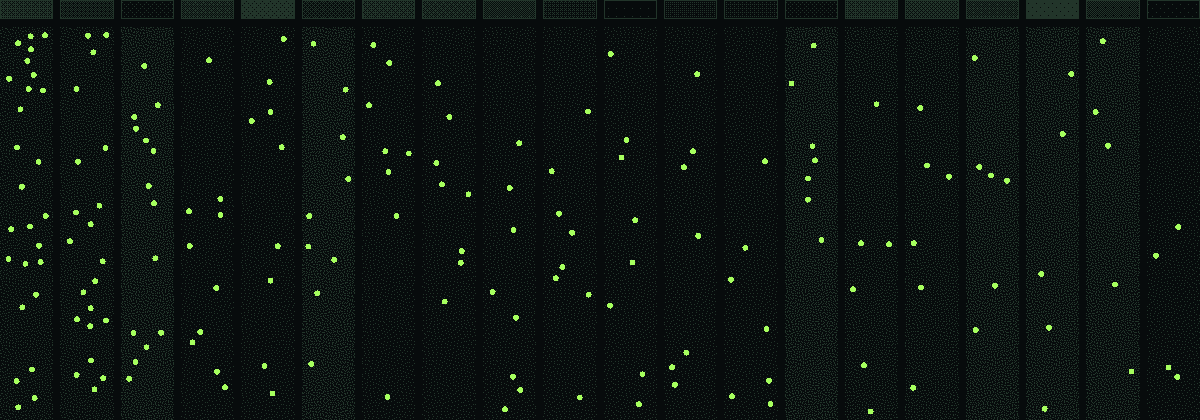
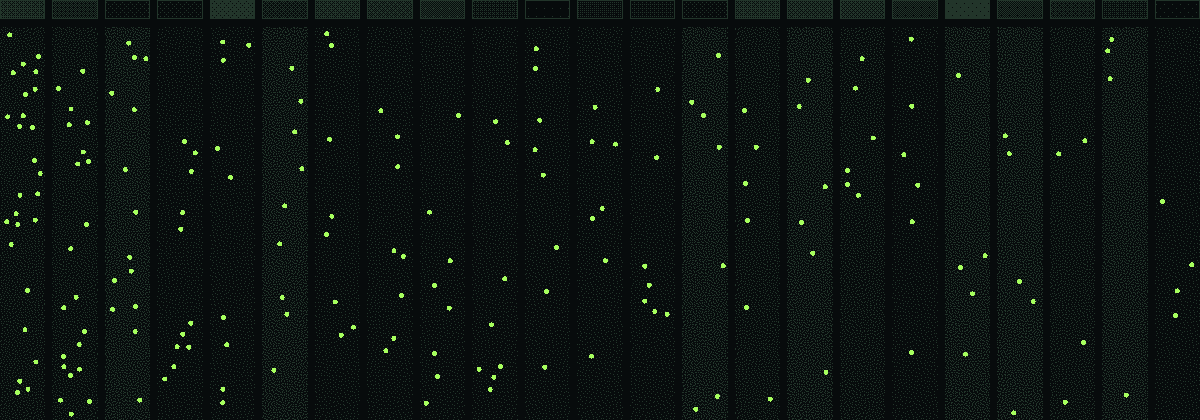
Refresh Harness Firmware product story

Changed region(s): [[0.0, 0.0, 1.0, 1.0]]

diff --git a/public/harness-firmware/index.html b/public/harness-firmware/index.html
@@ -4,12 +4,12 @@
 <meta charset="utf-8">
 <meta name="viewport" content="width=device-width, initial-scale=1">
 <title>Harness Firmware · boots warm</title>
-<meta name="description" content="Firmware for coding agents. Sessions end. The memory stays. A GitHub template: 8.1 KiB resident kernel, durable committed memory, 20 on-demand skill playbooks.">
+<meta name="description" content="A repo-resident operating layer for coding agents: committed project knowledge, explicit correction loops, generated runtime adapters, and 23 on-demand playbooks.">
 <meta name="theme-color" content="#070B0C">
 <meta name="color-scheme" content="dark">
 <link rel="icon" type="image/svg+xml" href="/harness-firmware/assets/favicon.svg">
 <meta property="og:title" content="Harness Firmware · boots warm">
-<meta property="og:description" content="Firmware for coding agents. Sessions end. The memory stays. ≈2,079 tokens resident per turn.">
+<meta property="og:description" content="Make every repository remember how it works. 23 on-demand playbooks with an approximate 2,339-token file-based resident layer.">
 <meta property="og:image" content="https://fullbuild.ai/harness-firmware/assets/og.png">
 <meta name="twitter:card" content="summary_large_image">
 <link rel="stylesheet" href="/harness-firmware/src/phosphor.css">
@@ -28,15 +28,15 @@
   <div class="hero-inner">
     <p class="hero-name mono">HARNESS FIRMWARE</p>
     <h1 class="hero-title" id="hero-title"><span class="hl">BOOTS</span><span class="hl">WARM</span></h1>
-    <p class="hero-sub">A GitHub template that sets up Claude Code and Codex with standing rules, skills they load on demand, and memory kept in the repo.<br><b>Sessions end. What it learned stays.</b></p>
+    <p class="hero-sub"><b>Make every repository remember how it works.</b><br>Put project knowledge, correction workflows, and runtime-qualified agent guidance under version control.</p>
     <div class="hero-row">
-      <a class="cta" href="https://github.com/ryanportfolio/Harness-Firmware">USE THIS TEMPLATE &rarr;</a>
-      <span class="readout mono" data-stat><i class="tick" aria-hidden="true"></i>8.1 KiB in context every turn</span>
+      <a class="cta" href="https://github.com/ryanportfolio/Harness-Firmware/generate">USE THIS TEMPLATE &rarr;</a>
+      <span class="readout mono" data-stat><i class="tick" aria-hidden="true"></i>9.1 KiB file-based resident layer</span>
     </div>
     <p class="hero-note mono">Claude Code and Codex are terminal coding agents, from Anthropic and OpenAI</p>
     <p class="key mono"><span class="k-green">green = written to the repo</span> <span class="k-blue">blue = only in the live session</span></p>
   </div>
-  <span class="hero-seed mono" aria-hidden="true">grain seeded from rev 5224beb</span>
+  <span class="hero-seed mono" aria-hidden="true">grain seeded from rev d9cd99f5</span>
   <span class="hero-scroll mono" aria-hidden="true"><span class="m">SCROLL &middot; THE BEAM FOLLOWS</span><span class="rm">STATIC &middot; MEMORY HOLDS</span></span>
 </section>
 
@@ -46,8 +46,8 @@
   <section class="sec sec-01" id="s01">
     <span class="ghost" aria-hidden="true">01</span>
     <div class="sec-body">
-      <span class="gtag mono" aria-hidden="true"><b>DURABLE MEMORY</b> &middot; pitfalls.md &middot; 2026-07-18</span>
-      <h2 class="reveal">Solve it once, never again</h2>
+      <span class="gtag mono" aria-hidden="true"><b>COMMITTED PROJECT KNOWLEDGE</b> &middot; pitfalls.md &middot; 2026-07-18</span>
+      <h2 class="reveal">Make the repository remember</h2>
       <figure class="console reveal" id="recall-demo">
         <figcaption class="console-bar mono micro"><span>SESSION LOG &middot; /recall</span><span class="replay-hint" aria-hidden="true">replay</span></figcaption>
         <div class="console-body mono" data-replay>
@@ -55,15 +55,15 @@
           <p class="ln">preview shows an outdated version of the site</p>
           <p class="ln">server reuse on a busy port &middot; stale process from a prior session</p>
           <p class="ln cmd">/recall save local preview servers: stale or wrong site</p>
-          <p class="ln keep">saved &rarr; <span class="nb">.claude/reference/pitfalls.md</span> <span class="nb">&middot; committed</span></p>
+          <p class="ln keep">saved &rarr; <span class="nb">.claude/reference/pitfalls.md</span> <span class="nb">&middot; reviewable repo change</span></p>
           <p class="ln off">session ended &middot; context cleared</p>
           <p class="ln gap" aria-hidden="true">&nbsp;</p>
-          <p class="ln dim">claude &middot; session B &middot; any machine, any day</p>
-          <p class="ln boot">warm boot &middot; reads <span class="keep nb">.claude/reference/pitfalls.md</span></p>
-          <p class="ln keep">pitfall already known &middot; port owner checked &middot; trap skipped</p>
+          <p class="ln dim">agent &middot; session B &middot; future checkout</p>
+          <p class="ln boot">task matches local preview failure &middot; <span class="keep nb">/recall</span></p>
+          <p class="ln keep">reads pitfalls.md &middot; cites the saved entry &middot; trap skipped</p>
         </div>
       </figure>
-      <p class="copy reveal">When the agent hits a problem, you type <span data-stat>/recall</span> in the agent and it writes the lesson into a file in your repo. Every session after that reads it at startup. Because the file is committed, your teammates' agents get it too.</p>
+      <p class="copy reveal"><span data-stat>/recall</span> does not preload every lesson. It routes the task to the relevant reference file, reads the real repo knowledge, and cites its source. Save a new pitfall once; teammates and future sessions can retrieve it when the work matches.</p>
     </div>
   </section>
 
@@ -71,14 +71,14 @@
   <section class="sec sec-02" id="s02">
     <span class="ghost" aria-hidden="true">02</span>
     <div class="sec-body">
-      <span class="gtag mono" aria-hidden="true"><b>WHAT LOADS EVERY TURN</b></span>
-      <h2 class="reveal">8.1 KiB is all it keeps loaded</h2>
+      <span class="gtag mono" aria-hidden="true"><b>DEFAULT FILE-BASED LAYER</b></span>
+      <h2 class="reveal">9.1 KiB keeps the map, not every manual</h2>
       <div class="halo-stage reveal">
-        <img class="bake" src="/harness-firmware/fallback/core-halo.png" alt="A small dense green phosphor core inside a vast faint residue halo; the lit green mass is 4.7% of the lit residue, the measured resident share" width="1200" height="640">
-        <span class="halo-numeral" aria-hidden="true"><span class="lockup">8<span class="dp">.</span>1<i>KiB</i></span></span>
+        <img class="bake" src="/harness-firmware/fallback/core-halo.png" alt="A small dense green phosphor core inside a vast faint residue halo; the lit green mass is 5% of the lit residue, the measured resident share" width="1200" height="640">
+        <span class="halo-numeral" aria-hidden="true"><span class="lockup">9<span class="dp">.</span>1<i>KiB</i></span></span>
       </div>
-      <p class="mono micro reveal metrology" data-stat>kernel 5,401 B + skill index 2,916 B = resident 8,317 B &middot; &approx;2,079 tok/turn &middot; resident end 0x0207D</p>
-      <p class="copy reveal">The rules, plus one line describing each skill, are the only part in the context window every turn: <span data-stat>8,317 bytes</span>, about <span data-stat>2,079 tokens</span>. Paste all twenty skills in instead and you would carry about <span data-stat>43,776 tokens</span> before writing a line of code, so this runs at <span data-stat>4.7%</span> of that, a <span data-stat>21.1&times;</span> difference.</p>
+      <p class="mono micro reveal metrology" data-stat>kernel 5,401 B + routing index 3,954 B = resident 9,355 B &middot; &approx;2,339 tok/turn &middot; resident end 0x0248B &middot; 20.1&times; &middot; 5%</p>
+      <p class="copy reveal">The measured resident repo files total <span data-stat>9,355 bytes</span>, about <span data-stat>2,339 tokens</span> using a four-character estimate. The full <span data-stat>188,216 B</span> playbook library stays on demand. Tool catalogs, runtime injection, billing, and productivity are outside this measurement.</p>
       <figure class="rules reveal">
         <figcaption class="mono micro">FOUR OF THE STANDING RULES, VERBATIM FROM CLAUDE.md</figcaption>
         <ul class="mono">
@@ -96,38 +96,52 @@
   <section class="sec sec-03" id="s03">
     <span class="ghost" aria-hidden="true">03</span>
     <div class="sec-body">
-      <span class="gtag mono" aria-hidden="true"><b>ON-DEMAND SKILLS</b> &middot; 20 skills &middot; 171 KiB</span>
-      <h2 class="reveal">Twenty skills, loaded only when needed</h2>
+      <span class="gtag mono" aria-hidden="true"><b>DEFINING OPERATING LOOPS</b> &middot; 8 workflows &middot; 23 in the full library</span>
+      <h2 class="reveal">Eight workflows make the repository compound</h2>
       <p class="pan-hint mono micro" aria-hidden="true">pan &rarr;</p>
       <div class="spectrum-stage reveal" id="spectrum">
-        <img class="bake" src="/harness-firmware/fallback/spectrum.png" alt="Twenty vertical phosphor bands ordered by flash address, one green dot per 1,024-byte block; writing-skills carries 26 dots, caveman 4. Cap fill at the top of each band shows the true last-block pad" width="1200" height="420">
+        <img class="bake" src="/harness-firmware/fallback/spectrum.png" alt="Twenty-three vertical phosphor bands ordered by flash address, one green dot per 1,024-byte block; writing-skills carries 26 dots, caveman 4. Cap fill shows the true last-block pad" width="1200" height="420">
         <div class="band-labels mono" aria-hidden="true"><span>writing-skills &middot; 26 dots</span><span>caveman &middot; 4 dots</span></div>
       </div>
       <p class="mono readline" id="spectrum-readout" aria-live="polite" data-stat>writing-skills &middot; 26,286 B &middot; 26 blocks &middot; 0x00000</p>
-      <p class="mono micro reveal">one dot = one 1,024 B block &middot; 182 blocks &middot; 175,102 B across 20 skills &middot; largest writing-skills 26,286 B &middot; smallest caveman 3,111 B</p>
-      <p class="copy reveal">A skill is a markdown playbook in <span data-stat>.claude/skills/</span>. The agent reads the one-line summary of each, and loads the whole file only when the work calls for it. Here are all twenty, with the space each takes on disk.</p>
+      <p class="mono micro reveal">one dot = one 1,024 B block &middot; 197 blocks &middot; 188,216 B across 23 skills &middot; largest writing-skills 26,286 B &middot; smallest caveman 3,111 B</p>
+      <ul class="sr-only" id="spectrum-inventory">
+        <li>writing-skills: 26,286 B, 26 blocks, discipline</li>
+        <li>impartial-review: 20,933 B, 21 blocks, discipline</li>
+        <li>init-project: 13,400 B, 14 blocks, core</li>
+        <li>enhance-prompt: 10,335 B, 11 blocks, extras</li>
+        <li>why: 9,121 B, 9 blocks, extras</li>
+        <li>merge: 8,590 B, 9 blocks, core</li>
+        <li>advocate: 7,837 B, 8 blocks, extras</li>
+        <li>fable-mode: 7,770 B, 8 blocks, extras</li>
+        <li>lab: 7,693 B, 8 blocks, extras</li>
+        <li>humanizer: 7,483 B, 8 blocks, extras</li>
+        <li>handoff-audit: 7,182 B, 8 blocks, extras</li>
+        <li>purposeful-writing: 6,383 B, 7 blocks, extras</li>
+        <li>forge-repo-ui-skill: 6,329 B, 7 blocks, extras</li>
+        <li>optimize-context: 6,253 B, 7 blocks, core</li>
+        <li>writing-plans: 5,812 B, 6 blocks, discipline</li>
+        <li>addskill: 5,784 B, 6 blocks, core</li>
+        <li>brainstorming: 5,755 B, 6 blocks, discipline</li>
+        <li>wow-loop: 5,613 B, 6 blocks, extras</li>
+        <li>sync-starter: 5,081 B, 5 blocks, core</li>
+        <li>recall: 4,588 B, 5 blocks, core</li>
+        <li>long-horizon: 3,508 B, 4 blocks, discipline</li>
+        <li>refine: 3,369 B, 4 blocks, core</li>
+        <li>caveman: 3,111 B, 4 blocks, extras</li>
+      </ul>
+      <p class="copy reveal">The full library mixes homegrown, reimplemented, and upstream skills. Raw count is not the differentiation. These eight connect project memory, correction, scaffolding, propagation, context control, and independent verification.</p>
       <ol class="skill-list mono reveal">
-          <li><b>writing-skills</b><span>author and test new skills</span><em>26 blocks</em></li>
-          <li><b>impartial-review</b><span>fresh agents audit your changes</span><em>21 blocks</em></li>
-          <li><b>init-project</b><span>configure a newly created repo</span><em>14 blocks</em></li>
-          <li><b>enhance-prompt</b><span>turn a rough ask into a prompt</span><em>10 blocks</em></li>
-          <li><b>why</b><span>challenge the last recommendation</span><em>9 blocks</em></li>
-          <li><b>merge</b><span>commit, push, PR, merge</span><em>9 blocks</em></li>
-          <li><b>advocate</b><span>argue against a change before it lands</span><em>8 blocks</em></li>
-          <li><b>fable-mode</b><span>deep mode for layered work</span><em>8 blocks</em></li>
-          <li><b>lab</b><span>prototype UI and motion live</span><em>8 blocks</em></li>
-          <li><b>humanizer</b><span>strip AI tells from prose</span><em>8 blocks</em></li>
-          <li><b>handoff-audit</b><span>audit prompt for a fresh session</span><em>8 blocks</em></li>
-          <li><b>purposeful-writing</b><span>prose written for a real reader</span><em>7 blocks</em></li>
-          <li><b>forge-repo-ui-skill</b><span>synthesise a repo UI skill</span><em>7 blocks</em></li>
-          <li><b>optimize-context</b><span>cut per-turn token load</span><em>7 blocks</em></li>
-          <li><b>writing-plans</b><span>plan before touching code</span><em>6 blocks</em></li>
-          <li><b>brainstorming</b><span>design before building</span><em>6 blocks</em></li>
-          <li><b>addskill</b><span>add a repo-local skill</span><em>6 blocks</em></li>
-          <li><b>sync-starter</b><span>pull template updates in</span><em>5 blocks</em></li>
-          <li><b>recall</b><span>save and read project memory</span><em>5 blocks</em></li>
-          <li><b>caveman</b><span>ultra-terse replies</span><em>4 blocks</em></li>
+          <li><b>recall</b><span>retrieve and capture project knowledge</span><em>5 blocks</em></li>
+          <li><b>refine</b><span>turn task friction into a reversible correction</span><em>4 blocks</em></li>
+          <li><b>init-project</b><span>configure a new repo from detected facts</span><em>14 blocks</em></li>
+          <li><b>sync-starter</b><span>move generic improvements without overwriting local knowledge</span><em>5 blocks</em></li>
+          <li><b>optimize-context</b><span>cut guidance that no longer earns its cost</span><em>7 blocks</em></li>
+          <li><b>long-horizon</b><span>preserve an audited contract across verified rounds</span><em>4 blocks</em></li>
+          <li><b>impartial-review</b><span>use fresh agents to audit changes when tools allow</span><em>21 blocks</em></li>
+          <li><b>wow-loop</b><span>drive visual work through screenshot-backed critique</span><em>6 blocks</em></li>
       </ol>
+      <p class="mono micro reveal">23/23 generated adapters current &middot; contract checks pass &middot; CI checks the Windows project generator end to end</p>
     </div>
   </section>
 
@@ -135,33 +149,37 @@
   <section class="sec sec-04" id="s04">
     <span class="ghost" aria-hidden="true">04</span>
     <div class="sec-body">
-      <span class="gtag mono" aria-hidden="true"><b>HOW IT IS BUILT</b> &middot; image end 0x2ABFE</span>
-      <h2 class="reveal">Not a pile of prompts</h2>
-      <p class="copy reveal">The small context bill is a side effect. The reason to run it is that every part follows a practice that holds up when the library and the team grow.</p>
+      <span class="gtag mono" aria-hidden="true"><b>WHAT MAKES IT POWERFUL</b> &middot; image end 0x2DF38</span>
+      <h2 class="reveal">What makes it powerful</h2>
+      <p class="copy reveal">The strength is not the skill count. It is how the mechanisms connect, compound, and stay reviewable.</p>
       <ol class="practices reveal">
         <li>
-          <b>Descriptions route, they do not summarise</b>
-          <span>Every skill's front matter says <em>when to use it</em>, never what it does. That one line is all the agent sees until it opens the file, so it has to work as a classifier.</span>
+          <b>Committed knowledge has a system of record</b>
+          <span>Architecture, commands, deployment facts, and dated pitfalls live in named reference files, not one chat transcript.</span>
         </li>
         <li>
-          <b>Disclosure is progressive</b>
-          <span>The index stays in context. The playbook is read only when the work matches it, through an ordinary file read.</span>
+          <b>Recall is routed and evidence-backed</b>
+          <span><em>/recall</em> selects the relevant topic, reads the actual file, cites its lines, and saves new lessons in the right home.</span>
         </li>
         <li>
-          <b>Skills are tested before they ship</b>
-          <span>A new or edited skill is run against a fresh agent under pressure first, and the rule is blunt: no skill without a failing test. A skill is executable behaviour, not documentation.</span>
+          <b>Correction changes the harness itself</b>
+          <span><em>/refine</em> maps one observed friction to the smallest reviewable rule, memory, or workflow edit, so each fix can stand or roll back alone.</span>
         </li>
         <li>
-          <b>Memory has a system of record</b>
-          <span>Lessons land in a named file that is committed, not in a chat log, so a later session or a teammate can replay where a fact came from.</span>
+          <b>New repositories begin from facts</b>
+          <span><em>/init-project</em> detects the stack first, asks only for unresolved decisions, seeds references, and prunes irrelevant capability.</span>
         </li>
         <li>
-          <b>Claims are verified, not assumed</b>
-          <span>The kernel forbids reporting a check that was not actually run, and requires saying so plainly when verification has to happen somewhere else.</span>
+          <b>One playbook source serves both runtimes</b>
+          <span>Claude workflows remain canonical. Generated Codex adapters add discovery, safety guidance, and honest capability gates without duplicating bodies.</span>
         </li>
         <li>
-          <b>Restraint is enforced</b>
-          <span>New rules and skills have to earn their place. Pruning stale content beats accreting it, because a library nobody trims stops routing correctly.</span>
+          <b>Improvements propagate selectively</b>
+          <span><em>/sync-starter</em> moves generic fixes across repositories while protecting project-specific rules and memory from bulk replacement.</span>
+        </li>
+        <li>
+          <b>Hard work can require independent evidence</b>
+          <span>Long-horizon, impartial review, and visual audit loops use fresh contexts only when the runtime proves those tools exist.</span>
         </li>
       </ol>
     </div>
@@ -172,7 +190,7 @@
     <span class="ghost" aria-hidden="true">05</span>
     <div class="sec-body">
       <span class="gtag mono" aria-hidden="true"><b>INSTALL</b> &middot; MIT &middot; GitHub template</span>
-      <h2 class="reveal">Flash it</h2>
+      <h2 class="reveal">Start with the operating layer already there</h2>
       <div class="slabs">
         <article class="slab slab-wide reveal">
           <h3 class="mono slab-title">NEW REPO &middot; New-ClaudeProject-UI.cmd</h3>
@@ -188,17 +206,17 @@
               <p class="ln">next: open it in Claude Code &middot; run <code>/init-project</code></p>
             </div>
           </figure>
-          <p class="mono micro slab-note">a standalone ZIP from the repo: run it once, it creates and clones each new project<br>Windows only. On macOS or Linux, use <a href="https://github.com/ryanportfolio/Harness-Firmware">the template button</a> on GitHub instead</p>
+          <p class="mono micro slab-note">a standalone <a href="https://github.com/ryanportfolio/Harness-Firmware/releases/latest/download/New-ClaudeProject-UI.zip">ZIP from the repo</a>: run it once, it creates and clones each new project<br>Windows only. On macOS or Linux, use <a href="https://github.com/ryanportfolio/Harness-Firmware/generate">the template button</a> on GitHub instead</p>
         </article>
         <article class="slab reveal">
           <h3 class="mono slab-title">SKILLS ONLY &middot; EXISTING REPO</h3>
           <pre class="mono slab-code"><code>/plugin marketplace add <span class="nb">ryanportfolio/Harness-Firmware</span>
 /plugin install <span class="nb">claude-starter@claude-starter</span></code></pre>
-          <p class="mono micro slab-note">installs 20 skills &middot; 171 KiB on call</p>
+          <p class="mono micro slab-note">installs 23 skills &middot; 184 KiB on call</p>
           <p class="mono micro slab-note">names: <b>Harness Firmware</b> is the template &middot; <b>claude-starter</b> is its plugin on the marketplace &middot; <b>fullbuild.ai</b> is the site you are on</p>
         </article>
       </div>
-      <p class="copy reveal">You need Claude Code or Codex installed, and the GitHub CLI signed in. One run gives you a private repo, cloned and ready; <span data-stat>/init-project</span> then fills in the project-specific rules and checks the setup. Or add just the skills to a repo you already have.</p>
+      <p class="copy reveal">Use the template path for the kernel, references, skills, adapters, and sync wiring. <span data-stat>/init-project</span> then fills in project facts and verifies the setup. Use the plugin path when an existing repo needs only the playbooks.</p>
     </div>
   </section>
 
@@ -206,27 +224,27 @@
   <section class="sec sec-06" id="s06">
     <span class="ghost" aria-hidden="true">06</span>
     <div class="sec-body">
-      <span class="gtag mono" aria-hidden="true"><b>RUNTIMES</b></span>
-      <h2 class="reveal">Works in Claude Code and Codex</h2>
+      <span class="gtag mono" aria-hidden="true"><b>ONE PLAYBOOK SOURCE</b> &middot; TWO RUNTIME BOUNDARIES</span>
+      <h2 class="reveal">Shared workflows, honest differences</h2>
       <div class="tubes-stage reveal">
         <img class="bake" src="/harness-firmware/fallback/tubes.png" alt="One green firmware core splitting into two dithered traces that terminate in two labeled tube faces: Claude Code and Codex" width="1200" height="480">
-        <span class="tube-label mono tube-src" aria-hidden="true">rev 5224beb &middot; one image</span>
+        <span class="tube-label mono tube-src" aria-hidden="true">rev d9cd99f5 &middot; one source</span>
         <span class="face-tag mono tag-a" aria-hidden="true">CC</span>
         <span class="face-tag mono tag-b" aria-hidden="true">CX</span>
-        <span class="tube-label mono tube-a" aria-hidden="true">CLAUDE CODE<i>reads it raw</i><b>resident 8,317 B</b></span>
-        <span class="tube-label mono tube-b" aria-hidden="true">CODEX<i>generated adapters</i><b>resident 8,317 B</b></span>
+        <span class="tube-label mono tube-a" aria-hidden="true">CLAUDE CODE<i>canonical workflows</i><b>hooks + native skills</b></span>
+        <span class="tube-label mono tube-b" aria-hidden="true">CODEX<i>generated adapters</i><b>capability-gated</b></span>
       </div>
-      <p class="copy reveal">One set of files drives both. A script in the repo regenerates the Codex adapters whenever a skill changes, so there is no second copy to keep in sync. <span data-stat>rev 5224beb &middot; tree 97530c9e</span></p>
+      <p class="copy reveal">Canonical skill bodies live once. Codex adapters are regenerated from them, while runtime-specific safety rules stay separate. Shared source does not pretend hooks or capabilities are identical. <span data-stat>rev d9cd99f5 &middot; tree 503356de</span></p>
     </div>
   </section>
 
 </main>
 
 <footer class="exit">
-  <p class="mono exitline"><span class="volatile nb">power-off &middot; context cleared</span> <span class="retained nb">memory retained &middot; next boot warm</span></p>
+  <p class="mono exitline"><span class="volatile nb">power-off &middot; context cleared</span> <span class="retained nb">repo knowledge retained &middot; recall on the next relevant task</span></p>
   <div class="footnotes mono micro">
-    <span>every figure here is measured from the repo, not estimated &middot; the dot grain is seeded from rev 5224beb</span>
-    <span data-stat>measured 2026-07-30 &middot; git objects at rev 5224beb &middot; image end 0x2ABFE &middot; &approx;4 bytes/token</span>
+    <span>byte figures come from repo Git objects &middot; token figures use an approximate four-character conversion &middot; grain seeded from rev d9cd99f5</span>
+    <span data-stat>measured 2026-08-11 &middot; git objects at rev d9cd99f5 &middot; image end 0x2DF38 &middot; &approx;4 characters/token</span>
     <span>built and maintained at fullbuild.ai &middot; <a href="https://github.com/ryanportfolio/Harness-Firmware">github.com/ryanportfolio/Harness-Firmware</a> &middot; MIT</span>
     <span>set in Unbounded, an open-licensed typeface</span>
   </div>

diff --git a/public/harness-firmware/src/phosphor.css b/public/harness-firmware/src/phosphor.css
@@ -63,6 +63,18 @@ a:focus-visible, .cta:focus-visible {
 }
 .skip-link:focus { left: 0; }
 
+.sr-only {
+  position: absolute;
+  width: 1px;
+  height: 1px;
+  padding: 0;
+  margin: -1px;
+  overflow: hidden;
+  clip: rect(0, 0, 0, 0);
+  white-space: nowrap;
+  border: 0;
+}
+
 /* ---------- chrome ---------- */
 .chrome {
   position: absolute;
@@ -194,7 +206,7 @@ a:focus-visible, .cta:focus-visible {
   height: 7px;
   margin-right: 10px;
   background: var(--green);
-  animation: tickpulse 2.079s var(--ease) infinite; /* 2,079 tok / 1,000 */
+  animation: tickpulse 2.339s var(--ease) infinite; /* 2,339 tok / 1,000 */
 }
 @keyframes tickpulse {
   0%, 88% { background-color: var(--green); }
@@ -650,6 +662,7 @@ h2.excited { color: var(--blue); transition: none; } /* the beam passes */
   .skill-list { font-size: 12px; }
   .skill-list li { grid-template-columns: minmax(0, 1fr) auto; }
   .skill-list span { grid-column: 1 / -1; }
+  .practices { grid-template-columns: minmax(0, 1fr); }
   .tubes-stage .tube-label {
     position: static;
     display: block;

diff --git a/docs/specs/2026-07-30-harness-firmware-page.md b/docs/specs/2026-07-30-harness-firmware-page.md
@@ -29,7 +29,7 @@ phosphor never went fully dark.
    - No other hues (test-enforced). `::selection` = green on glass.
 2. **Light exists only as dots or type.** All glow is real dithering: 8×8
    Bayer (standard recurrence) and a 64×64 void-and-cluster blue-noise tile
-   seeded `0x5224beb` : the measured git rev. No gradients, no blur, no
+   seeded `0xd9cd99f5` : the measured git rev. No gradients, no blur, no
    box/text shadows (test-enforced). Halos are dot-density falloff.
 3. **Type.** Unbounded (OFL, self-hosted variable TTF) for display: hero
    `clamp(56px, 15vw, 230px)`, headings to 104px, data numerals to 280px.
@@ -37,11 +37,11 @@ phosphor never went fully dark.
    commands, micro-labels. Nothing below 11px (test-enforced). Headings
    never end with a period (test-enforced).
 4. **Countable honesty.** Every figure from `facts.json` (git objects @ rev
-   `5224beb`). The dither is data: spectrum = 20 bands in real flash-address
+   `d9cd99f5`). The dither is data: spectrum = 23 bands in real flash-address
    order, **exactly 1 dot per allocated 1,024-B block** (writing-skills 26,
    caveman 4), cap fill = true last-block pad; core-halo green lit-mass is
-   binary-search calibrated to 8,317:175,102 (±0.2% : baked at 0.04749 vs
-   true 0.047498); ramp head = 4.7% of width; pulse = 2.079 s = tokens/1000.
+   binary-search calibrated to 9,355:188,216 (±0.2% : true ratio 0.049704);
+   ramp head = 5% of width; pulse = 2.339 s = tokens/1000.
    `tests/harness-firmware.test.mjs` imports the engine and recounts.
 5. **One engine.** `src/dither.mjs` is shared verbatim by the browser
    runtime (`src/phosphor.js`) and the baker
@@ -67,11 +67,28 @@ node --test tests/harness-firmware.test.mjs
 ## Locked facts
 
 `public/harness-firmware/facts.json` (single source). Kernel 5,401 B ≈
-1,350 tok; index 2,916 B ≈ 729 tok; resident 8,317 B ≈ 2,079 tok/turn
-(8.1 KiB); on-demand 175,102 B (171 KiB), 20 skills; lazy 21.1×; resident
-4.7%; tiers 6/4/10; tree `97530c9e…`; address marks 0x01519 / 0x0207D /
-0x2ABFE; pitfall example 2026-07-18; repo ryanportfolio/Harness-Firmware,
+1,350 tok; index 3,954 B ≈ 989 tok; resident 9,355 B ≈ 2,339 tok/turn
+(9.1 KiB); on-demand 188,216 B (184 KiB), 23 skills; lazy 20.1×; resident
+5%; tiers 7/5/11; tree `503356de…`; address marks 0x01519 / 0x0248B /
+0x2DF38; pitfall example 2026-07-18; repo ryanportfolio/Harness-Firmware,
 GitHub template, MIT.
+
+## v2.2 copy and measurement refresh (2026-08-11)
+
+- Updated all repo figures to Harness Firmware rev `d9cd99f5` and regenerated
+  the deterministic grain from that revision.
+- Corrected the recall story: project knowledge is selected on demand and
+  cited from the relevant reference file, not loaded wholesale at startup.
+- Reduced the visible catalog to eight defining operating-layer workflows while
+  keeping the spectrum countable across all 23 skills.
+- Replaced generic architecture language with a specific “What makes it
+  powerful” section: committed knowledge, evidence-backed recall, reversible
+  refine edits, fact-driven initialization, generated adapters, selective sync,
+  and capability-gated independent evidence.
+- Qualified the token figure as an approximate file-based conversion. It does
+  not claim model billing, tool-catalog cost, or runtime parity.
+- Added a static screen-reader inventory for every spectrum band and direct
+  links to GitHub's template generator and Windows launcher ZIP.
 
 ## v2.1 additions (user direction, 2026-07-30)
 
@@ -94,14 +111,14 @@ GitHub template, MIT.
 
 ## Deepenings logged, not built (closing pass)
 
-- Cross-section mass ledger: 182 latent dots seeded into the s04 ramp tail.
+- Cross-section mass ledger: 197 latent dots seeded into the s04 ramp tail.
 - Footer self-power-off animation on scroll arrival (motion only).
 - Spectrum keyboard navigation for the band readout.
 
 ## Wit register
 
-- The noise seed is the git rev (`0x5224beb`) : even the grain is versioned.
-- Readout pulse every 2.079 s = resident tokens ÷ 1000.
+- The noise seed is the git rev (`0xd9cd99f5`) : even the grain is versioned.
+- Readout pulse every 2.339 s = resident tokens ÷ 1000.
 - Leave the tab: title becomes "memory retained · harness firmware"; return: one full beam re-sweep.
 - Hover any statistic: flashes blue, decays back green : every figure
   ritually survives its own power-off.
